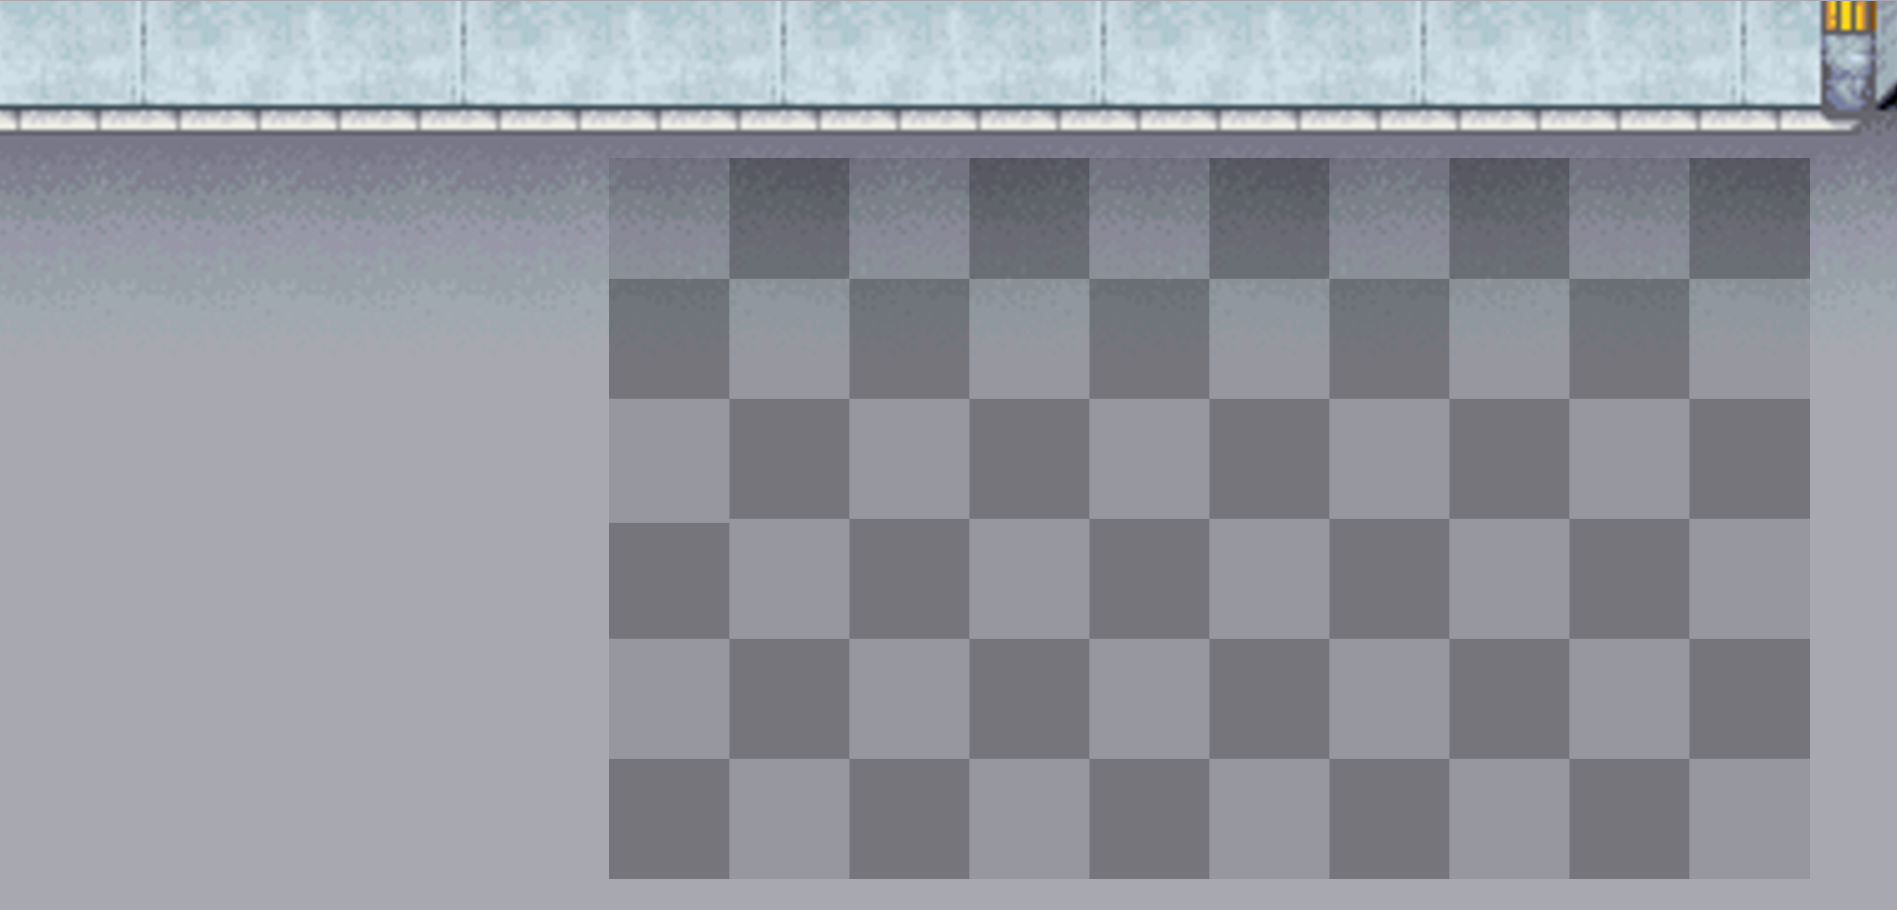
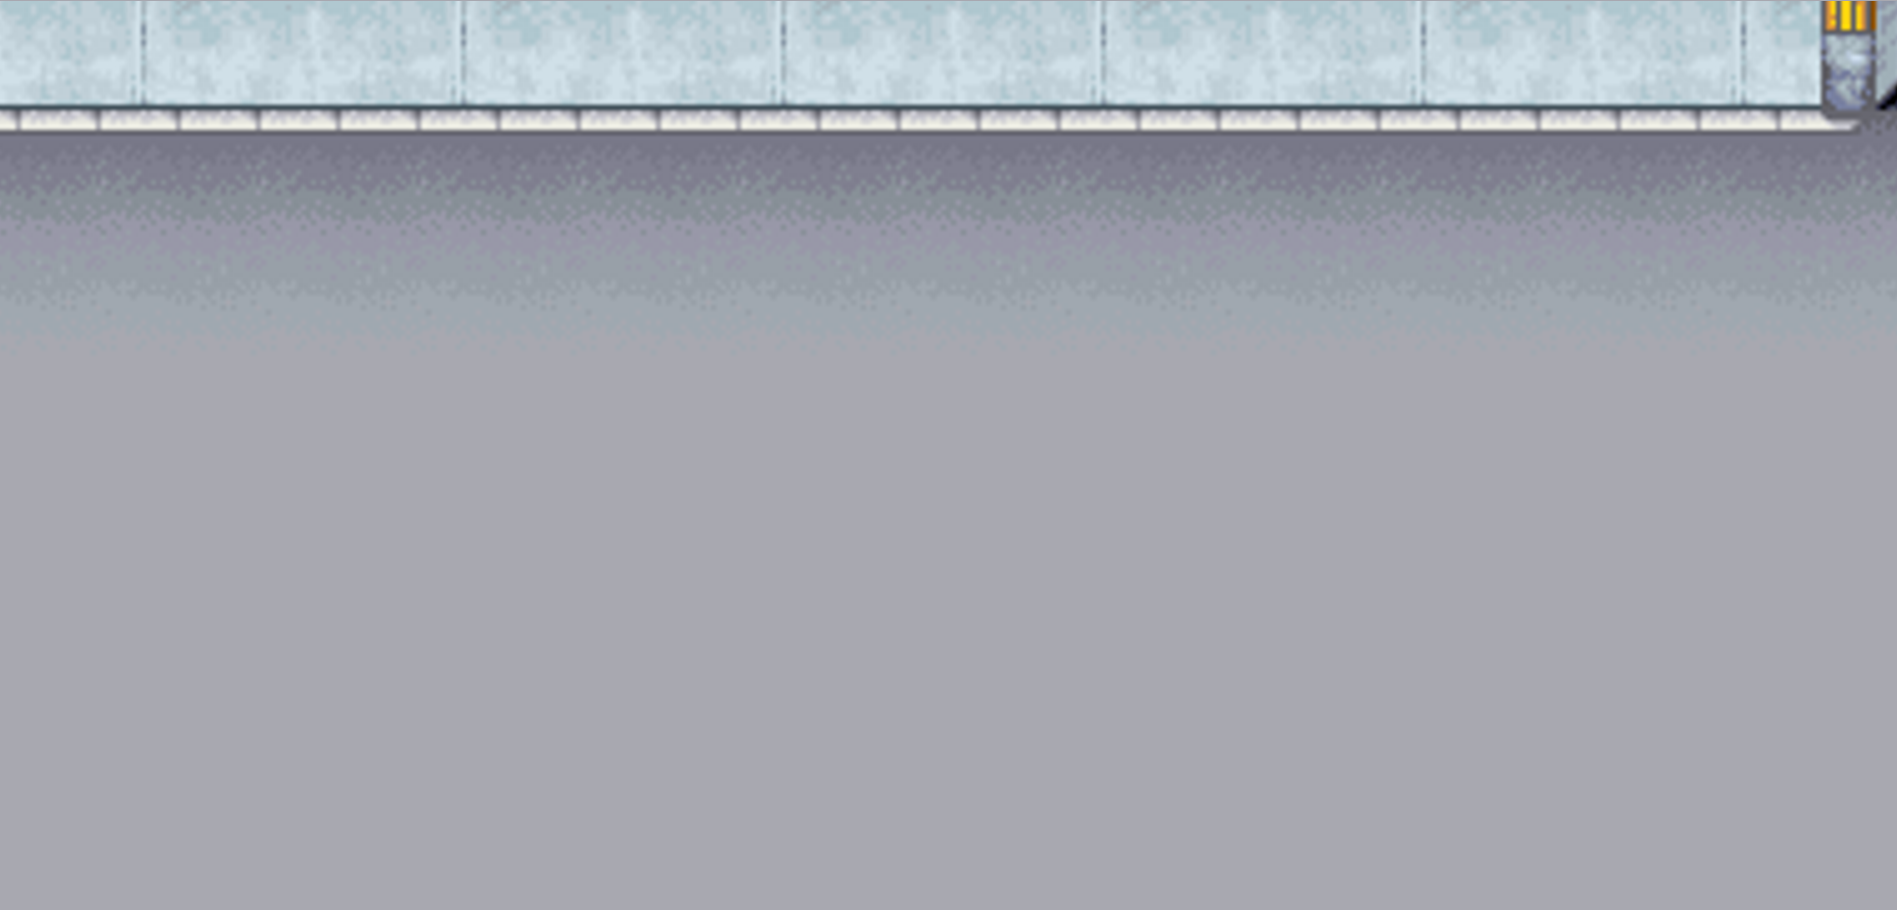
Agregados labels de aliados a la GUI. Las oleadas ahora se generan el las coordenadas correctas

Changed region(s): [[0.311, 0.1538, 0.9642, 0.9846]]

diff --git a/Fuentes/src/GUI/Controlador/MenuPrincipal.java b/Fuentes/src/GUI/Controlador/MenuPrincipal.java
@@ -66,11 +66,11 @@ public class MenuPrincipal {
 	 */
 	public MenuPrincipal() {
 		lista = new LinkedList<JLabel>();
-		GameObject e = new Kangaroo(640, 0);
+		GameObject e = new Kangaroo(640, 55);
 		elJuego = new Juego(e);
 		initialize();
 		crearMapa();
-		crearLabelsPersonajes(45, 45, mapa.getHeight(), mapa.getWidth(), 258, 58);
+		crearLabelsPersonajes(50, 50, mapa.getHeight(), mapa.getWidth(), (int) Math.round(frame.getWidth()/2.5), frame.getHeight()/5);
 		
 		for (JLabel labelLista: lista) {
 			labelLista.addMouseListener(new MouseAdapter() {
@@ -91,6 +91,7 @@ public class MenuPrincipal {
 			});
 		}
 		contador = new ContadorTiempo(elJuego, this);
+		mapa.setLimites(this.getLimiteEnemigos());
 	}
 
 	/**
@@ -99,7 +100,7 @@ public class MenuPrincipal {
 	private void initialize() {
 		frame = new JFrame();
 		frame.setResizable(false);
-		frame.setBounds(100, 100, 800, 422);
+		frame.setBounds(100, 100, 1000, 527);
 		frame.setDefaultCloseOperation(JFrame.EXIT_ON_CLOSE);
 		
 		JMenuBar menuBar = new JMenuBar();
@@ -242,8 +243,11 @@ public class MenuPrincipal {
 		personajes = new LabelPersonaje[filas][columnas];
 		int pos_x = x;
 		int pos_y = y;
+		boolean negro = false;
+		boolean negro_col = false;
 		
 		for(int i=0; i<filas; i++) {
+			negro_col = negro;
 			for(int j=0; j<columnas; j++) {
 				personajes[i][j] = new LabelPersonaje(null, pos_x, pos_y, alto, ancho);
 				pos_y += alto;
@@ -251,13 +255,41 @@ public class MenuPrincipal {
 				personajes[i][j].setVisible(true);
 				personajes[i][j].setOpaque(true);
 				
+				//Colores random para por ahora
 				Random r = new Random();
 				personajes[i][j].setBackground(new Color(r.nextInt(255), r.nextInt(255), r.nextInt(255), 50));
 				panelMapa.add(personajes[i][j]);
+				
+				//TODO: En versión final después descomentar esto
+//				if(negro_col) {
+//					personajes[i][j].setBackground(new Color(110,110,110, 100));
+//					negro_col = false;
+//				}else {
+//					personajes[i][j].setBackground(new Color(150,150,150, 100));
+//					negro_col = true;
+//				}	
 			}
 			pos_y = y;
 			pos_x += ancho;
+			negro = !negro;
 		}
+	}
+	
+	/**
+	 * Retorna el límite derecho de la grilla de la GUI. Es de donde se generan las 
+	 * oleadas de enemigos
+	 * @return Un arreglo de ix2 con la primera componente con la coordenada x y la segunda componente
+	 * con la coordenada y de los límites
+	 */
+	public int[][] getLimiteEnemigos(){
+		int[][] arr = new int[personajes.length][2];
+		
+		for(int i=0; i<personajes.length; i++) {
+			arr[i][0] = personajes[i][personajes[i].length-1].getX();
+			arr[i][1] = personajes[i][personajes[i].length-1].getY();
+		}
+		
+		return arr;
 	}
 }
 

diff --git a/Fuentes/src/Logica/General/Nivel.java b/Fuentes/src/Logica/General/Nivel.java
@@ -33,21 +33,21 @@ public class Nivel {
 		int cantidad = r.nextInt(10) + 20; //genera entre 20 y 30 enemigos
 		int poder = r.nextInt(100); //genera un número al azar para saber si aplicar o no un poder en el enemigo
 		int distancia = 0;
-		int coordenadas_y[] = new int[6];
-		int coordenada_x = 1000; //TODO: en un futuro debe capturarla del mapa
- 		//lleno el arreglo de coordenadas "y" TODO: en un futuro tiene que capturarlas del mapa
-		coordenadas_y[0] = 100;
-		coordenadas_y[1] = 200;
-		coordenadas_y[2] = 300;
-		coordenadas_y[3] = 400;
-		coordenadas_y[4] = 500;
-		coordenadas_y[5] = 600;
+		
+		int[][] limites = mapa.getLimites();
+		
+		int coordenadas_y[] = new int[limites[0].length];
+		int coordenada_x = limites[0][0];
+		
+		for(int i=0; i<limites[0].length; i++) {
+			coordenadas_y[i] = limites[i][1];
+		}
 		
 		/*
 		 * Generamos los enemigos totalmente al azar
 		 */
 		for(int i=0; i<=cantidad; i++) {
-			int j = r.nextInt(5); //para saber en qué coordenada "y" poner el enemigo
+			int j = r.nextInt(coordenadas_y.length-1); //para saber en qué coordenada "y" poner el enemigo
 			int dif = r.nextInt(dificultad); //dif es la nueva dificultad de los enemigos
 											// se generan enemigos tan difíciles entre 0..dificultad
 			

diff --git a/Fuentes/src/Logica/Mapa/Mapa.java b/Fuentes/src/Logica/Mapa/Mapa.java
@@ -16,6 +16,7 @@ public class Mapa {
 	protected LabelPersonaje[][] matriz;
 	protected int width, height;
 	protected String textura;
+	protected int[][] limites;
 	
 	/**
 	 * Constructor de Mapa
@@ -85,5 +86,23 @@ public class Mapa {
 	 */
 	public String getTextura() {
 		return textura;
+	}
+	
+	/**
+	 * Asigna los límites derechos desde donde surgen los enemigos
+	 * @param l Matriz de ix2 con la primera componente con las coordenadas x de los límites
+	 * y la segunda componente con las coordenadas y de los límites
+	 */
+	public void setLimites(int[][] l) {
+		this.limites = l;
+	}
+	
+	/**
+	 * Retorna los límites derechos desde donde surgen los enemigos
+	 * @return Un arreglo de ix2 con la primera componente con la coordenada x y la segunda componente
+	 * con la coordenada y de los límites
+	 */
+	public int[][] getLimites(){
+		return limites;
 	}
 }
